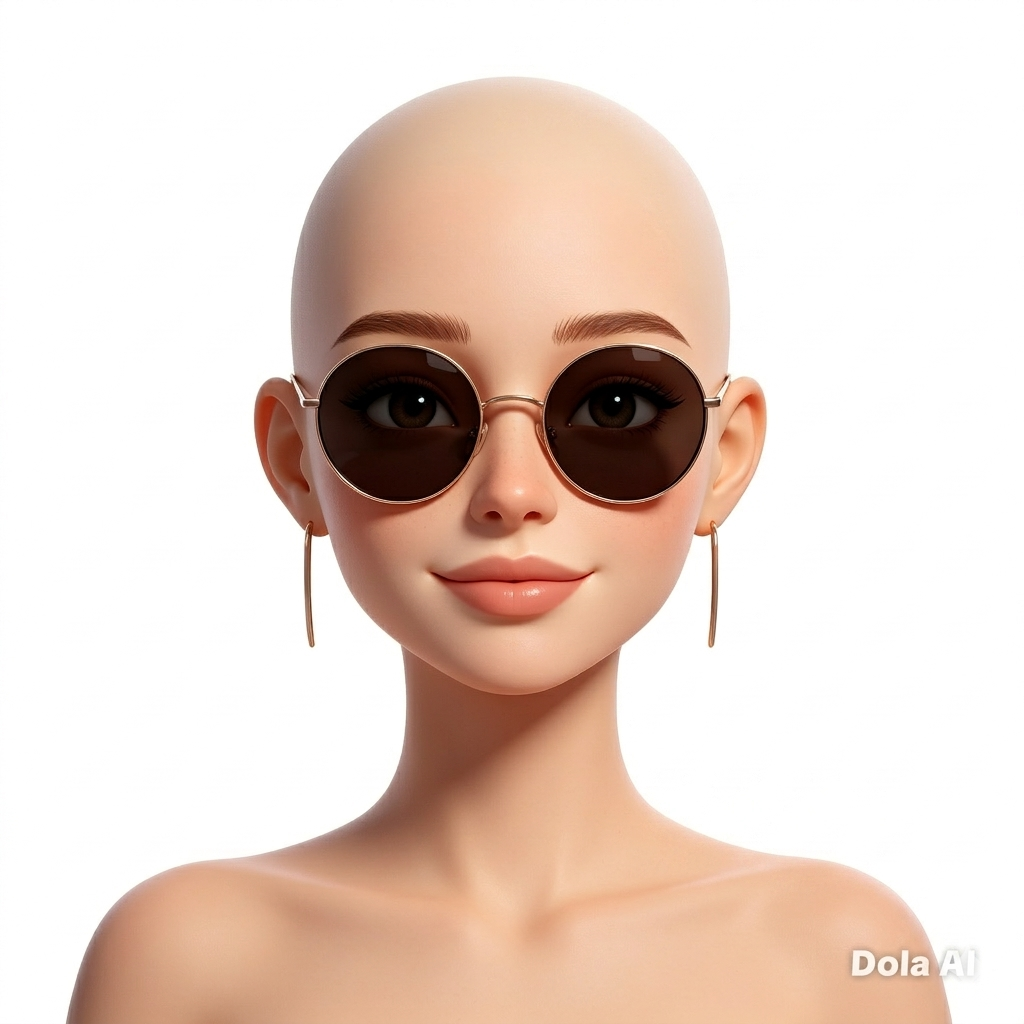
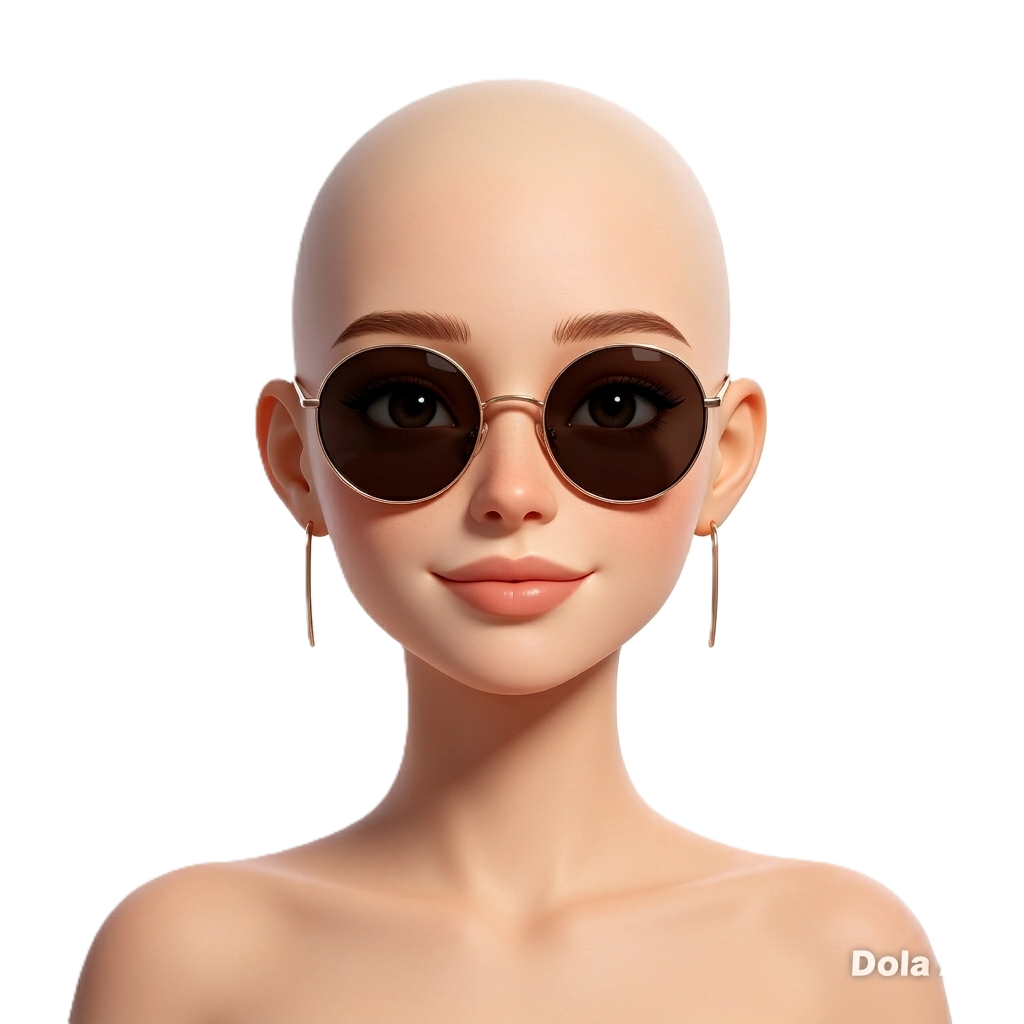
feat: add active question keys to game start event and update related components

diff --git a/apps/web/src/app/game/[gameId]/page.tsx b/apps/web/src/app/game/[gameId]/page.tsx
@@ -10,7 +10,7 @@ import type { LogEntry } from '@/components/game/GameLog'
 import { Badge } from '@/components/ui/Badge'
 import { Button } from '@/components/ui/Button'
 import { getPlayerId } from '@/lib/player'
-import { QUESTION_LABELS } from '@/lib/questions'
+import { ACTIVE_QUESTION_KEYS, QUESTION_LABELS } from '@/lib/questions'
 import { createWsClient, WsClient } from '@/lib/ws-client'
 import {
   Board,
@@ -32,6 +32,7 @@ interface StoredGameSnapshot {
   yourSecretCharacterId: string
   firstTurnPlayerId: string
   opponentType: 'human' | 'dummy'
+  activeQuestionKeys?: string[]
 }
 
 interface OpponentQuestionSummary {
@@ -60,6 +61,19 @@ function readStoredSnapshot(gameId: string): StoredGameSnapshot | null {
   }
 }
 
+function parseQuestionKeysOrFallback(keys?: string[]): QuestionKey[] {
+  if (!Array.isArray(keys) || keys.length === 0) {
+    return ACTIVE_QUESTION_KEYS
+  }
+
+  const validKeys = new Set(Object.values(QuestionKey))
+  const parsed = keys
+    .map((key) => String(key).trim().toUpperCase())
+    .filter((key): key is QuestionKey => validKeys.has(key as QuestionKey))
+
+  return parsed.length > 0 ? parsed : ACTIVE_QUESTION_KEYS
+}
+
 export default function GamePage({ params }: PageProps) {
   const { gameId } = use(params)
   const router = useRouter()
@@ -86,6 +100,7 @@ export default function GamePage({ params }: PageProps) {
   const [resolvedQuestionAnswers, setResolvedQuestionAnswers] = useState<QuestionAnswerMap>({})
   const [eliminatedCharacterIds, setEliminatedCharacterIds] = useState<string[]>([])
   const [candidateCount, setCandidateCount] = useState<number | null>(null)
+  const [availableQuestionKeys] = useState<QuestionKey[]>(() => parseQuestionKeysOrFallback(snapshot?.activeQuestionKeys))
   const [dismissEndgameOverlay, setDismissEndgameOverlay] = useState(false)
 
   const myPlayerId = playerIdRef.current
@@ -534,6 +549,7 @@ export default function GamePage({ params }: PageProps) {
           <ActionPanel
             isMyTurn={isMyTurn && gameStatus === 'in_progress' && !hasPendingQuestion}
             activeTab={activeTab}
+            availableQuestionKeys={availableQuestionKeys}
             onTabChange={(tab) => {
               setActiveTab(tab)
               if (tab !== 'guess') {

diff --git a/apps/web/src/components/game/ActionPanel.tsx b/apps/web/src/components/game/ActionPanel.tsx
@@ -17,6 +17,7 @@ interface PendingQuestion {
 interface ActionPanelProps {
   isMyTurn:                boolean
   activeTab:               ActionTab
+  availableQuestionKeys?:  QuestionKey[]
   onTabChange:             (tab: ActionTab) => void
   pendingQuestion?:        PendingQuestion | null
   selectedGuessCharacterName?: string | null
@@ -30,6 +31,7 @@ interface ActionPanelProps {
 export function ActionPanel({
   isMyTurn,
   activeTab,
+  availableQuestionKeys = ACTIVE_QUESTION_KEYS,
   onTabChange,
   pendingQuestion = null,
   selectedGuessCharacterName = null,
@@ -136,7 +138,7 @@ export function ActionPanel({
       {/* Question options */}
       {activeTab === 'question' && (
         <div className="grid grid-cols-1 gap-2 xs:grid-cols-2">
-          {ACTIVE_QUESTION_KEYS.map((key) => (
+          {availableQuestionKeys.map((key) => (
             (() => {
               const isResolved = Object.prototype.hasOwnProperty.call(resolvedQuestionAnswers, key)
               const resolvedAnswer = resolvedQuestionAnswers[key]

diff --git a/apps/web/src/lib/protocol.test.ts b/apps/web/src/lib/protocol.test.ts
@@ -101,18 +101,19 @@ describe('protocol helpers', () => {
             {
               characterId: 'char-1',
               displayName: 'Character 1',
-              imageUrl: '/characters/png/chica-01.png',
+              imageUrl: '/characters/png/char-01.png',
             },
           ],
         },
         yourSecretCharacterId: 'char-1',
         firstTurnPlayerId: 'p1',
+        activeQuestionKeys: ['USES_GLASSES', 'HAS_BEARD'],
       },
     })
 
     const parsed = parseServerMessage(raw)
     const payload = parsed?.payload as { board?: { characters?: Array<{ imageUrl?: string }> } }
-    expect(payload.board?.characters?.[0]?.imageUrl).toBe('/characters/png/chica-01.png')
+    expect(payload.board?.characters?.[0]?.imageUrl).toBe('/characters/png/char-01.png')
   })
 
   it('parses auto_action_triggered payloads', () => {

diff --git a/apps/web/src/lib/protocol.ts b/apps/web/src/lib/protocol.ts
@@ -106,6 +106,7 @@ export type GameStartedEvent = WireMessage<'game_started', {
   board:                 Board
   yourSecretCharacterId: string
   firstTurnPlayerId:     string
+  activeQuestionKeys?:   string[]
 }>
 
 export type TurnChangedEvent = WireMessage<'turn_changed', {

diff --git a/apps/server-java/src/main/java/com/joxelito/adivinaquien/websocket/GameWebSocketHandler.java b/apps/server-java/src/main/java/com/joxelito/adivinaquien/websocket/GameWebSocketHandler.java
@@ -351,6 +351,7 @@ public class GameWebSocketHandler extends TextWebSocketHandler {
         payload.put("board", Map.of("rows", board.rows(), "cols", board.cols(), "characters", characters));
         payload.put("yourSecretCharacterId", game.getSecretByPlayer().get(participant.playerId()));
         payload.put("firstTurnPlayerId", game.getCurrentTurnPlayerId());
+        payload.put("activeQuestionKeys", questionPolicy.activeQuestions().stream().map(QuestionKey::name).toList());
 
         send(session, "game_started", null, payload);
     }
